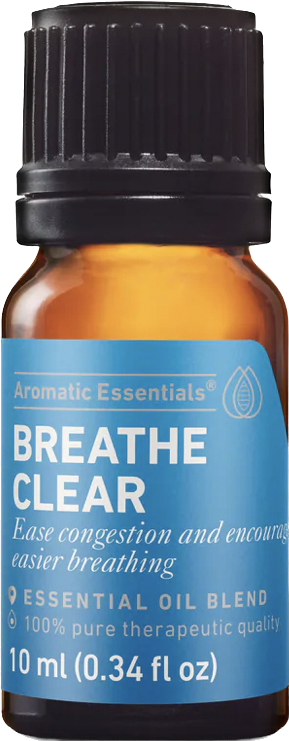
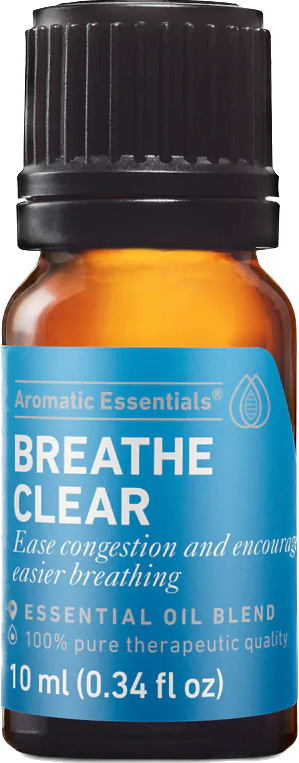
Update images and responsive
Updated EO images and responsiveness

diff --git a/oils.html b/oils.html
@@ -78,7 +78,7 @@
 			<div class="oils">
 				<div class="lemon">
 					<img class="image-oils" src="./assets/images/Aromatics/oils/lemon.png" alt="lemon essential oil">
-					<div class="oils-overlay oils-overlay-blur" onclick="">
+					<div class="oils-overlay oils-overlay2 oils-overlay-blur" onclick="">
 						<div class="oils-title lem">Lemon</div>
 						<p class="price">
 							$14.00
@@ -97,7 +97,7 @@
 				<div class="blood-orange">
 					<img class="image-oils" src="./assets/images/Aromatics/oils/blood_orange.png"
 							 alt="blood orange essential oil">
-					<div class="oils-overlay oils-overlay-blur" onclick="">
+					<div class="oils-overlay oils-overlay2 oils-overlay-blur" onclick="">
 						<div class="oils-title bld-orange">Blood Orange</div>
 						<p class="price">
 							$12.00
@@ -115,7 +115,7 @@
 				<div class="green-mandarin">
 					<img class="image-oils" src="./assets/images/Aromatics/oils/green-mandarin.png"
 							 alt="green mandarin essential oil">
-					<div class="oils-overlay oils-overlay-blur" onclick="">
+					<div class="oils-overlay oils-overlay2 oils-overlay-blur" onclick="">
 						<div class="oils-title mandarin">Green Mandarin</div>
 						<p class="price">
 							$18.00
@@ -135,7 +135,7 @@
 			<div class="oils">
 				<div class="peppermint">
 					<img class="image-oils" src="./assets/images/Aromatics/oils/peppermint.png" alt="peppermint essential oil">
-					<div class="oils-overlay oils-overlay2  oils-overlay-blur" onclick="">
+					<div class="oils-overlay oils-overlay3  oils-overlay-blur" onclick="">
 						<div class="oils-title mint">Peppermint</div>
 						<p class="price">
 							$13.00
@@ -153,7 +153,7 @@
 
 				<div class="lavender">
 					<img class="image-oils" src="./assets/images/Aromatics/oils/lavender.png" alt="lavender essential oil">
-					<div class="oils-overlay oils-overlay2 oils-overlay-blur" onclick="">
+					<div class="oils-overlay oils-overlay3 oils-overlay-blur" onclick="">
 						<div class="oils-title lavend">Lavender</div>
 						<p class="price">
 							$17.00
@@ -171,7 +171,7 @@
 
 				<div class="greek-lavender">
 					<img class="image-oils" src="./assets/images/Aromatics/oils/lavender.png" alt="greek lavender essential oil">
-					<div class="oils-overlay oils-overlay2 oils-overlay-blur" onclick="">
+					<div class="oils-overlay oils-overlay3 oils-overlay-blur" onclick="">
 						<div class="oils-title lavend">Greek Lavender</div>
 						<p class="price">
 							$22.00
@@ -188,7 +188,7 @@
 
 			<div class="oils">
 				<div class="frankincense">
-					<img class="image-oils" src="./assets/images/Aromatics/oils/frankincense.png"
+					<img class="image-oils2" src="./assets/images/Aromatics/oils/frankincense.png"
 							 alt="frankincense essential oil">
 					<div class="oils-overlay oils-overlay3 oils-overlay-blur" onclick="">
 						<div class="oils-title frank">Frankincense</div>
@@ -207,7 +207,7 @@
 				</div>
 
 				<div class="eucalyptus">
-					<img class="image-oils" src="./assets/images/Aromatics/oils/eucalyptus.png" alt="eucalyptus essential oil">
+					<img class="image-oils2" src="./assets/images/Aromatics/oils/eucalyptus.png" alt="eucalyptus essential oil">
 					<div class="oils-overlay oils-overlay3 oils-overlay-blur" onclick="">
 						<div class="oils-title eucalyp">Eucalyptus</div>
 						<p class="price">
@@ -225,9 +225,9 @@
 				</div>
 
 				<div class="mountain_bandits">
-					<img class="image-oils" src="./assets/images/Aromatics/oils/mountain_bandits.png"
+					<img class="image-oils2" src="./assets/images/Aromatics/oils/mountain_bandits.png"
 							 alt="mountain bandits essential oil">
-					<div class="oils-overlay oils-overlay3 oils-overlay-blur" onclick="">
+					<div class="oils-overlay oils-overlay3 oils-overlay5 oils-overlay-blur" onclick="">
 						<div class="oils-title mountain ">Mountain Bandits</div>
 						<p class="price">
 							$20.00
@@ -244,10 +244,10 @@
 			</div>
 
 			<div class="oils oils3">
-				<div class="breathe-clear">
-					<img class="image-oils" src="./assets/images/Aromatics/oils/breathe_clear.png"
+				<div class="breathe-clear breathe-clear2">
+					<img class="image-oils2 image-oils3" src="./assets/images/Aromatics/oils/breathe_clear.png"
 							 alt="breathe clear essential oil">
-					<div class="oils-overlay oils-overlay3 oils-overlay-blur" onclick="">
+					<div class="oils-overlay oils-overlay4 oils-overlay-blur" onclick="">
 						<div class="oils-title brth-clear">Breathe Clear</div>
 						<p class="price">
 							$19.00

diff --git a/css/responsive.css b/css/responsive.css
@@ -82,6 +82,13 @@
 
   /* End of Hydrosol */
 
+  /* Start of Carrier Oils */
+
+  .carrier-overlay { left: 30px; }
+
+
+  /* End of Carrier Oils */
+
   /* Start of Milk Mask */
   .masks1, .masks2 {
     display: grid;
@@ -166,21 +173,29 @@
 
   .oils3 { margin-bottom: 250px; }
 
-  .lemon, .blood-orange, .green-mandarin { width: 94%; }
+  .lemon, .blood-orange, .green-mandarin, .peppermint, .breathe-clear,
+  .lavender, .greek-lavender, .frankincense, .eucalyptus, .mountain_bandits, .breathe-clear { width: 94%; }
 
-  .peppermint, .lavender, .greek-lavender, .frankincense,
-  .breathe-clear, .mountain_bandits, .eucalyptus {
-    width: 110%;
-    right: 30px;
+  .breathe-clear2 {
+    width: 124%;
+    right: 46px;
   }
+
+  .breathe-clear2 { width: 128%; }
 
   .image-oils { left: 12px; }
 
-  .oils-overlay { left: 12px; }
+  .image-oils2 { left: 10px; }
 
-  .oils-overlay2 { left: initial; }
+  .image-oils3 { left: 0; }
 
-  .oils-overlay3 { left: initial; }
+  .oils-overlay { left: 18px; }
+
+  .oils-overlay2 { left: 18px; }
+
+  /*.oils-overlay3 { left: 48px; }*/
+
+  /*.oils-overlay4 { left: -25px; }*/
 
 
 
@@ -193,6 +208,13 @@
 
 
   /*!* End of Hydrosol *!*/
+
+  /* Start of Carrier Oils */
+
+  .carrier-overlay { left: 38px; }
+
+
+  /* End of Carrier Oils */
 
   /*.hero-wrapper { text-align: center; }*/
 
@@ -289,6 +311,15 @@
 
 @media screen and (max-width: 400px) {
 
+  /* Start of Essential Oils */
+
+  /*.oils-overlay2{ left: 12px; }*/
+  .oils-overlay4 { left: 20px; }
+  /*.oils-overlay3 { left: 0; }*/
+
+
+  /* End of Essential Oils */
+
   /* Start of Hydrosol */
 
   .hydrosol-sprays {
@@ -301,6 +332,12 @@
 
   /* End of Hydrosol */
 
+  /* Start of Carrier Oils */
+
+  .carrier-overlay { left: 21px; }
+
+  /* End of Carrier Oils */
+
 
   /* Start of Footer */
   .copyright p {
@@ -312,14 +349,27 @@
 
 @media screen and (max-width: 375px) {
 
+  /* Start of Essential Oils */
+
+  .oils-overlay2, .oils-overlay3 { left: 12px; }
+  /*.oils-overlay5 { left: 0; }*/
+
+  /* End of Essential Oils */
+
   /* Start of Hydrosol */
 
-  .hydrosol-overlay2 { left: 12px; }
+  .hydrosol-overlay2, .hydrosol-overlay3 { left: 12px; }
 
   .hydrosol-overlay6 { left: 20px; }
 
 
   /* End of Hydrosol */
+
+  /* Start of Carrier Oils */
+
+  .carrier-overlay { left: 12px; }
+
+  /* End of Carrier Oils */
 
 
   /* Start of Milk Masks */

diff --git a/hydrosols.html b/hydrosols.html
@@ -134,7 +134,7 @@
 			</div>
 
 			<div class="hydrosol">
-				<div class="peppermint peppermint-hydrosol">
+				<div class="peppermint-hydrosol">
 					<img class="hydrosol-sprays image-hydrosol" src="./assets/images/Aromatics/hydrosol/peppermint-hydrosol.png"
 							 alt="peppermint hydrosol">
 					<div class="hydrosol-overlay hydrosol-overlay2 hydrosol-overlay4 hydrosol-overlay-blur" onclick="">
@@ -171,7 +171,7 @@
 					</div>
 				</div>
 
-				<div class="frankincense frankincense-hydrosol">
+				<div class="frankincense-hydrosol">
 					<img class="hydrosol-sprays image-hydrosol" src="./assets/images/Aromatics/hydrosol/frankincense-hydrosol.png"
 							 alt="frankincense hydrosol">
 					<div class="hydrosol-overlay hydrosol-overlay3 hydrosol-overlay5 oils-overlay-blur" onclick="">

diff --git a/css/styles.css b/css/styles.css
@@ -727,6 +727,8 @@ span.bg-color-6 { background-image: linear-gradient(90deg, #FFC187 0%, #FE93A7 1
   margin-bottom: 200px;
 }
 
+.oils2 { left: 24px; }
+
 .oils3 { margin-bottom: 250px; }
 
 .lemon, .blood-orange, .green-mandarin, .peppermint, .lavender, .greek-lavender,
@@ -759,6 +761,13 @@ span.bg-color-6 { background-image: linear-gradient(90deg, #FFC187 0%, #FE93A7 1
   position: relative;
 }
 
+.image-oils2 {
+  display: block;
+  width: 20%;
+  margin: auto;
+  position: relative;
+}
+
 .oils-overlay {
   display: flex;
   position: absolute;
@@ -775,6 +784,8 @@ span.bg-color-6 { background-image: linear-gradient(90deg, #FFC187 0%, #FE93A7 1
   transition: opacity 0.25s;
   border-radius: 10px;
 }
+
+.oils-overlay2 { right: -24px; }
 
 .oils-overlay3 { right: -25px; }
 

diff --git a/index.html b/index.html
@@ -195,6 +195,9 @@
 							<img src="./assets/images/Infrared.png">
 							<h3>Infrared Therapy</h3>
 							<div class="price">$40</div>
+							<div class="plan-btn-wrapper">
+								<a href="https://squareup.com/appointments/book/ienp79va1ebf4i/L4TV2Q803AN4N/start" target="_blank" class="btn btn-primary">BOOK NOW</a>
+							</div>
 	<!--            <hr>-->
 	<!--            <ul>-->
 	<!--              <li>-->
@@ -264,6 +267,7 @@
 							<img src="./assets/images/salt-therapy.png" class="salt-therapy">
 							<h3>Infrared Therapy & Salt Cabin Combo</h3>
 							<div class="price">$55</div>
+							<p class="billed">Text/Call for appointment</p>
 	<!--            <hr>-->
 	<!--            <ul>-->
 	<!--              <li>-->
